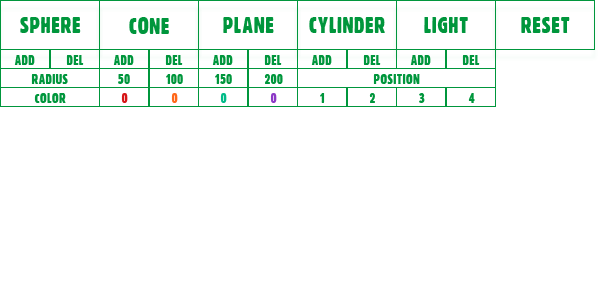
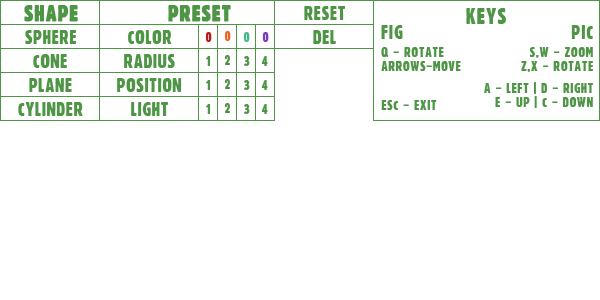
new menu and keys

Changed region(s): [[0.0, 0.0, 1.0, 0.42]]

diff --git a/source/gui/gui_utils.c b/source/gui/gui_utils.c
@@ -6,7 +6,7 @@
 /*   By: root <root@student.42.fr>                  +#+  +:+       +#+        */
 /*                                                +#+#+#+#+#+   +#+           */
 /*   Created: 2020/09/22 14:45:37 by root              #+#    #+#             */
-/*   Updated: 2020/10/09 15:35:20 by root             ###   ########.fr       */
+/*   Updated: 2020/10/13 15:42:53 by root             ###   ########.fr       */
 /*                                                                            */
 /* ************************************************************************** */
 
@@ -19,13 +19,13 @@ t_dot			get_position(int x_coord, t_gui_cache *gui_cache)
 	position = (t_dot){0,0,0};
 	if (!gui_cache->p_counter || gui_cache->p_counter > 200 || gui_cache->p_counter < -200)
 		gui_cache->p_counter = 20;
-	if (x_coord > 319 && x_coord < 367)
+	if (x_coord > 210 && x_coord < 230)
 		position = (t_dot){0, 0, -(gui_cache->p_counter + hypot(gui_cache->p_counter, 5))};
-	else if (x_coord > 372 && x_coord < 419)
+	else if (x_coord > 230 && x_coord < 255)
 		position = (t_dot){-100, (gui_cache->p_counter - sqrt(gui_cache->p_counter)), 0};
-	else if (x_coord > 424 && x_coord < 473)
+	else if (x_coord > 255 && x_coord < 275)
 		position = (t_dot){(gui_cache->p_counter + sqrt(gui_cache->p_counter)), -100, 0};
-	else if (x_coord > 478 && x_coord < 526)
+	else if (x_coord > 275 && x_coord < 290)
 		position = (t_dot){-200, -200, 0};
 	gui_cache->p_counter += 25;
 	printf("p_counter = %f\n", gui_cache->p_counter);
@@ -37,13 +37,13 @@ float 			get_radius(int x_coord)
 	float  radius;
 
 	radius = 0;
-	if (x_coord > 108 && x_coord < 157)
+	if (x_coord > 210 && x_coord < 230)
 		radius = 9999;
-	else if (x_coord > 157 && x_coord < 210)
+	else if (x_coord > 230 && x_coord < 255)
 		radius = 25000;
-	else if (x_coord > 210 && x_coord < 260)
+	else if (x_coord > 255 && x_coord < 275)
 		radius = 10000;
-	else if (x_coord > 260 && x_coord < 316)
+	else if (x_coord > 275 && x_coord < 290)
 		radius = 50000;
 	return (radius);
 }
@@ -53,13 +53,13 @@ int				get_color(int x_coord)
 	int 	color;
 
 	color = 0;
-	if (x_coord > 108 && x_coord < 157)
+	if (x_coord > 210 && x_coord < 230)
 		color = RED;
-	else if (x_coord > 157 && x_coord < 210)
+	else if (x_coord > 230 && x_coord < 255)
 		color = ORANGE;
-	else if (x_coord > 210 && x_coord < 260)
+	else if (x_coord > 255 && x_coord < 275)
 		color = MINT;
-	else if (x_coord > 260 && x_coord < 316)
+	else if (x_coord > 275 && x_coord < 290)
 		color = PURPLE;
 	return (color);
 }
@@ -68,26 +68,34 @@ void			gui_buttons(t_gui_cache *gui_cache, SDL_Event e)
 {
 	if (gui_cache->color != RED && gui_cache->color != ORANGE \
 		&& gui_cache->color != MINT && gui_cache->color != PURPLE && \
-		gui_cache->radius < 50.0000 && gui_cache->position.x < 100.0000)
+		gui_cache->radius < 9999.0000)
 	{
-		gui_cache->radius = 80;
+		gui_cache->radius = 10000;
 		gui_cache->color = WHITE;
-		gui_cache->position = (t_dot){400, 200, 300};
+		gui_cache->position = (t_dot){-200, 0, 0};
 	}
-	if (e.button.x < 316 && e.button.y > 80 && e.button.y < 105)
+	if (e.button.x > 210)
 	{
+		if (e.button.y > 25 && e.button.y < 43)
+		{
 //		colors
-		gui_cache->color = get_color(e.button.x);
-	}
-	else if (e.button.y > 70 && e.button.y < 85)
-	{
+			gui_cache->color = get_color(e.button.x);
+		}
+		else if (e.button.y > 43  && e.button.y < 70)
+		{
 //		radius
-		gui_cache->radius = get_radius(e.button.x);
-	}
-	else if (e.button.x > 300 && e.button.y > 90 && e.button.y < 102)
-	{
+			gui_cache->radius = get_radius(e.button.x);
+		}
+		else if (e.button.x > 70 && e.button.y < 93 && e.button.x < 200)
+		{
 //		position
-		gui_cache->position = get_position(e.button.x, gui_cache);
+			gui_cache->position = get_position(e.button.x, gui_cache);
+		}
+		else if (e.button.x > 93 && e.button.y < 115 && e.button.x > 200)
+		{
+//		position
+			gui_cache->position = get_position(e.button.x, gui_cache);
+		}
 	}
 }
 

diff --git a/source/control_utils.c b/source/control_utils.c
@@ -6,7 +6,7 @@
 /*   By: epainter <epainter@student.42.fr>          +#+  +:+       +#+        */
 /*                                                +#+#+#+#+#+   +#+           */
 /*   Created: 2020/09/17 12:48:35 by epainter          #+#    #+#             */
-/*   Updated: 2020/09/30 17:59:59 by root             ###   ########.fr       */
+/*   Updated: 2020/10/13 15:55:46 by root             ###   ########.fr       */
 /*                                                                            */
 /* ************************************************************************** */
 
@@ -18,39 +18,44 @@ void		mouse_events(t_sdl *sdl, SDL_Event e, t_gui_cache *gui_cache)
 	sdl->width + e.button.x], sdl->scene.camera.camera);
 
 	gui_buttons(gui_cache, e);
+	printf("e.b.x = %d\n e.b.y = %d\n", e.button.x, e.button.y);
 	printf("color = %d\n position = {%f, %f, %f}\n, radius = %f\n", gui_cache->color, gui_cache->position.x, \
 	gui_cache->position.y, gui_cache->position.z, gui_cache->radius);
-	if ((e.button.x > 530 && e.button.x < 600) && (e.button.y > 0 && e.button.y < 65))
+	if (e.button.x > 290 && e.button.x < 395)
 	{
-//		set_default();
-		printf("reset\n");
+		if (e.button.y > 3 && e.button.y < 20)
+			printf("reset");
+		else if (e.button.y > 21 && e.button.y < 43)
+		{
+			if (count_objs(sdl->scene.conic) != 3)
+				del_objs(&sdl->scene.conic);
+		}
 	}
-	if (e.button.y > 50 && e.button.y < 65)
+	if (e.button.x > 3 && e.button.x < 105)
 	{
-		if ((e.button.x > 0 && e.button.x < 100))
-//			printf("sphere\n");
+		if (e.button.y > 25 && e.button.y < 45)
+		{
+			printf("sphere\n");
 			gui_sphere(sdl, e, gui_cache);
-		else if (e.button.x > 100 && e.button.x < 210)
+		}
+
+		else if (e.button.y > 50 && e.button.y < 67)
 		{
 			gui_cone(sdl, e, gui_cache);
-//			printf("cone\n");
+			printf("cone\n");
 		}
-		else if (e.button.x > 210 && e.button.x < 320)
+		else if (e.button.y > 75 && e.button.y < 92)
 		{
-//			gui_plane(sdl, e, gui_cache);
+	//			gui_plane(sdl, e, gui_cache);
 			printf("plane\n");
 		}
-		else if (e.button.x > 320 && e.button.x < 420)
+		else if (e.button.y > 95 && e.button.y < 116)
 		{
-//			gui_cylinder(sdl, e, gui_cache);
+	//			gui_cylinder(sdl, e, gui_cache);
 			printf("cylinder\n");
 		}
-		else if (e.button.x > 420 && e.button.x < 530)
-		{
-//			gui_light(sdl, e, gui_cache);
-			printf("light\n");
-		}
 	}
+
 }
 
 void		camera_events(t_sdl *sdl, SDL_Event e)

diff --git a/source/gui/gui_cone.c b/source/gui/gui_cone.c
@@ -15,17 +15,4 @@ void 			gui_cone(t_sdl *sdl, SDL_Event e, t_gui_cache *gui_cache)
 {
 	if ((e.button.x > 100 && e.button.x < 150))
 		button_create_cone(sdl, gui_cache);
-	else if (e.button.x > 150 && e.button.x < 210)
-	{
-		printf("sdl->scene.conic->c.a = %f\n",sdl->scene.conic->c.a);
-		printf("sdl->scene.conic->c.b = %f\n",sdl->scene.conic->c.b);
-		printf("sdl->scene.conic->c.c = %f\n",sdl->scene.conic->c.c);
-		printf("sdl->scene.conic->angle.y = %f\n.", sdl->scene.conic->angle.x);
-		if (count_objs(sdl->scene.conic) != 3)
-			if(sdl->scene.conic->angle.y == M_PI_2)
-			{
-				printf("sdl->scene.conic->angle.y = %f\n.", sdl->scene.conic->angle.y);
-				del_objs(&sdl->scene.conic);
-			}
-	}
 }

diff --git a/source/gui/gui_sphere.c b/source/gui/gui_sphere.c
@@ -32,12 +32,4 @@ void 			gui_sphere(t_sdl *sdl, SDL_Event e, t_gui_cache *gui_cache)
 {
 	if ((e.button.x > 0 && e.button.x < 50))
 		button_create_sphere(sdl, gui_cache);
-	else if (e.button.x > 50 && e.button.x < 100)
-	{
-		if (count_objs(sdl->scene.conic) != 3)
-		{
-			if (sdl->scene.conic->angle.x == M_PI / 6)
-				del_objs(&sdl->scene.conic);
-		}
-	}
 }
